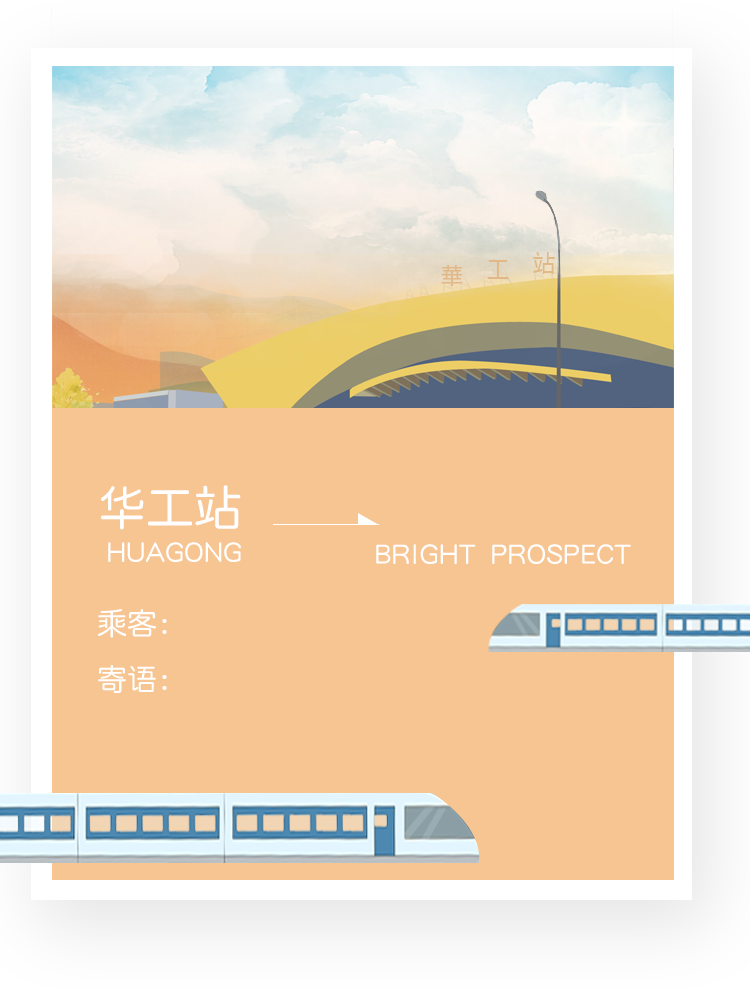
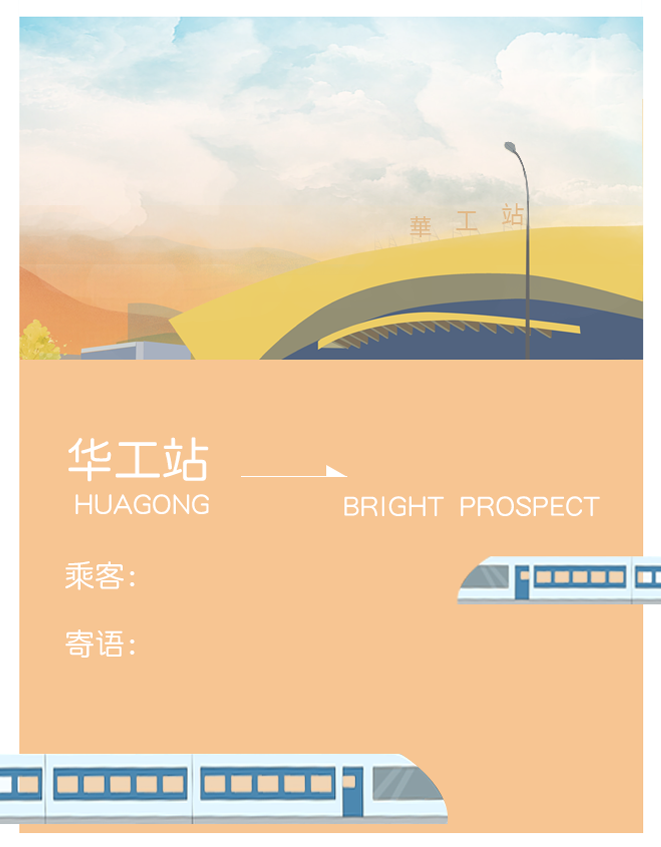
:bug:

diff --git a/Backend/routes/web.php b/Backend/routes/web.php
@@ -39,7 +39,7 @@ Route::any('station/img', function () {
     $comment = $station->comment;
     $img = Image::make(base_path().'/public/initial.png');
 
-    $img->text('恭喜你成为第'.session()->get('id').'位搭上列车的乘客', 72, 430, function ($font) {
+    $img->text('恭喜你成为第'.session()->get('id').'位搭上列车的乘客', 50, 390, function ($font) {
         $font->file(base_path().'/public/FZHTJW.ttf');
 
         $font->size(20);
@@ -48,7 +48,7 @@ Route::any('station/img', function () {
 
         $font->color('#D98247');
     });
-    $img->text($passenger1, 170, 610, function ($font) {
+    $img->text($passenger1.'  '.$passenger2.'  '.$passenger3, 155, 563, function ($font) {
         $font->file(base_path().'/public/FZHTJW.ttf');
 
         $font->size(30);
@@ -57,25 +57,25 @@ Route::any('station/img', function () {
 
         $font->color('#FFFFFF');
     });
-    $img->text($passenger2, 220, 610, function ($font) {
-        $font->file(base_path().'/public/FZHTJW.ttf');
+    // $img->text($passenger2, 220, 610, function ($font) {
+    //     $font->file(base_path().'/public/FZHTJW.ttf');
 
-        $font->size(30);
+    //     $font->size(30);
 
-        $font->valign('top');
+    //     $font->valign('top');
 
-        $font->color('#FFFFFF');
-    });
-    $img->text($passenger3, 270, 610, function ($font) {
-        $font->file(base_path().'/public/FZHTJW.ttf');
+    //     $font->color('#FFFFFF');
+    // });
+    // $img->text($passenger3, 270, 610, function ($font) {
+    //     $font->file(base_path().'/public/FZHTJW.ttf');
 
-        $font->size(30);
+    //     $font->size(30);
 
-        $font->valign('top');
+    //     $font->valign('top');
 
-        $font->color('#FFFFFF');
-    });
-    $img->text($destination, 385, 495, function ($font) {
+    //     $font->color('#FFFFFF');
+    // });
+    $img->text($destination, 365, 445, function ($font) {
         $font->file(base_path().'/public/FZHTJW.ttf');
 
         $font->size(37);
@@ -84,7 +84,7 @@ Route::any('station/img', function () {
 
         $font->color('#FFFFFF');
     });
-    $img->text($comment, 170, 665, function ($font) {
+    $img->text($comment, 155, 630, function ($font) {
         $font->file(base_path().'/public/FZHTJW.ttf');
 
         $font->size(30);
@@ -93,7 +93,7 @@ Route::any('station/img', function () {
 
         $font->color('#FFFFFF');
     });
-    $img->text($stations[session()->get('code')], 275, 486, function ($font) {
+    $img->text($stations[session()->get('code')], 252, 440, function ($font) {
         $font->file(base_path().'/public/FZHTJW.ttf');
 
         $font->size(25);
